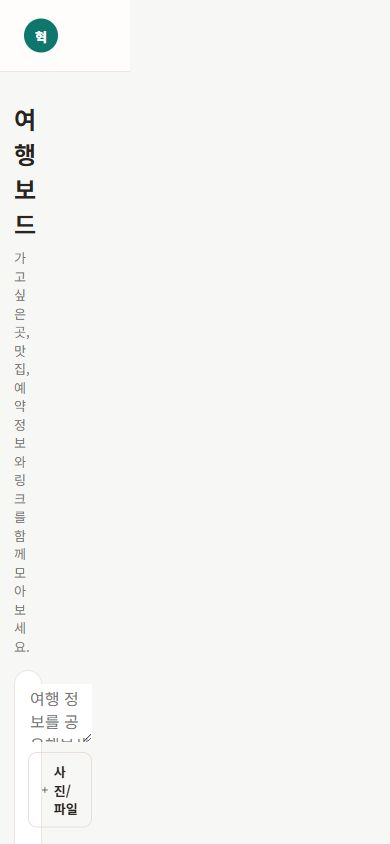
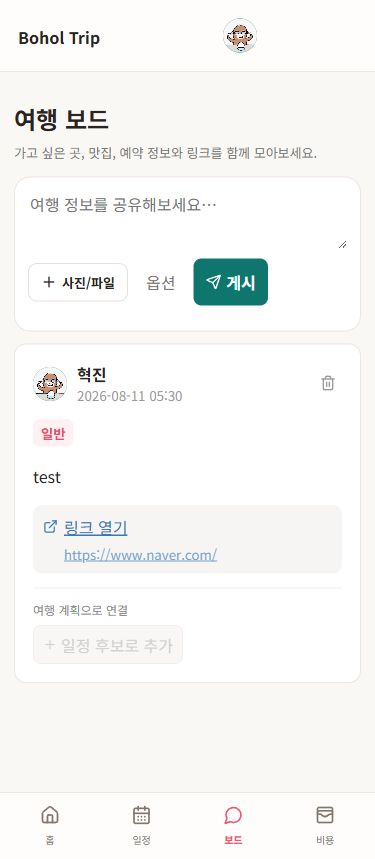
Correct mobile review artifacts and CTA color

diff --git a/src/interaction.css b/src/interaction.css
@@ -4,6 +4,11 @@
   opacity: .55;
 }
 
+/* Profile colors identify people; product actions always use the coral brand color. */
+.primary {
+  background: var(--coral);
+}
+
 .primary,
 .expenseAdd,
 .scheduleAdd,
